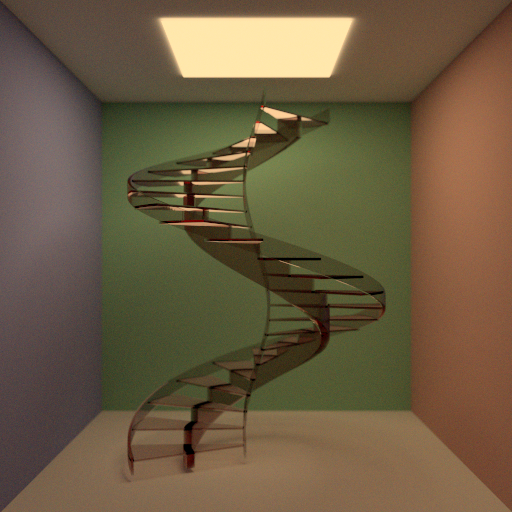
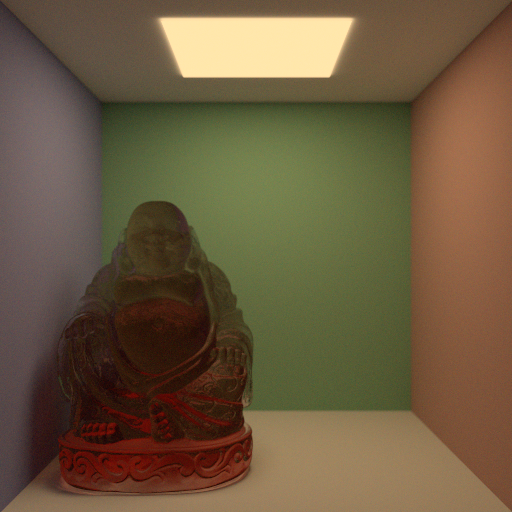
Better render.

Changed region(s): [[0.0312, 0.1875, 0.8125, 1.0]]

diff --git a/renders/README.md b/renders/README.md
@@ -31,7 +31,7 @@ Sorry for abusing the staircase model, but it is a rather good test scene.
 <p align="center">
 <img src="https://raw.github.com/TomCrypto/epsilon/master/renders/Absorption.png" alt="Spectral Absorption"/>
 </p>
-This was the first high resolution render obtained after I implemented the very
-first iteration of the material system. It features - of course - the staircase
-model, using a completely transparent glass-like material. The new feature here
-is spectral absorption.
+This is a new model (380k triangles), which I used to demonstrate the brand new
+material system, and in particular spectral absorption. The glass interface has
+no influence on the Buddha's red color, which is entirely due to the absorption
+of non-red wavelengths by the medium inside the statue.
